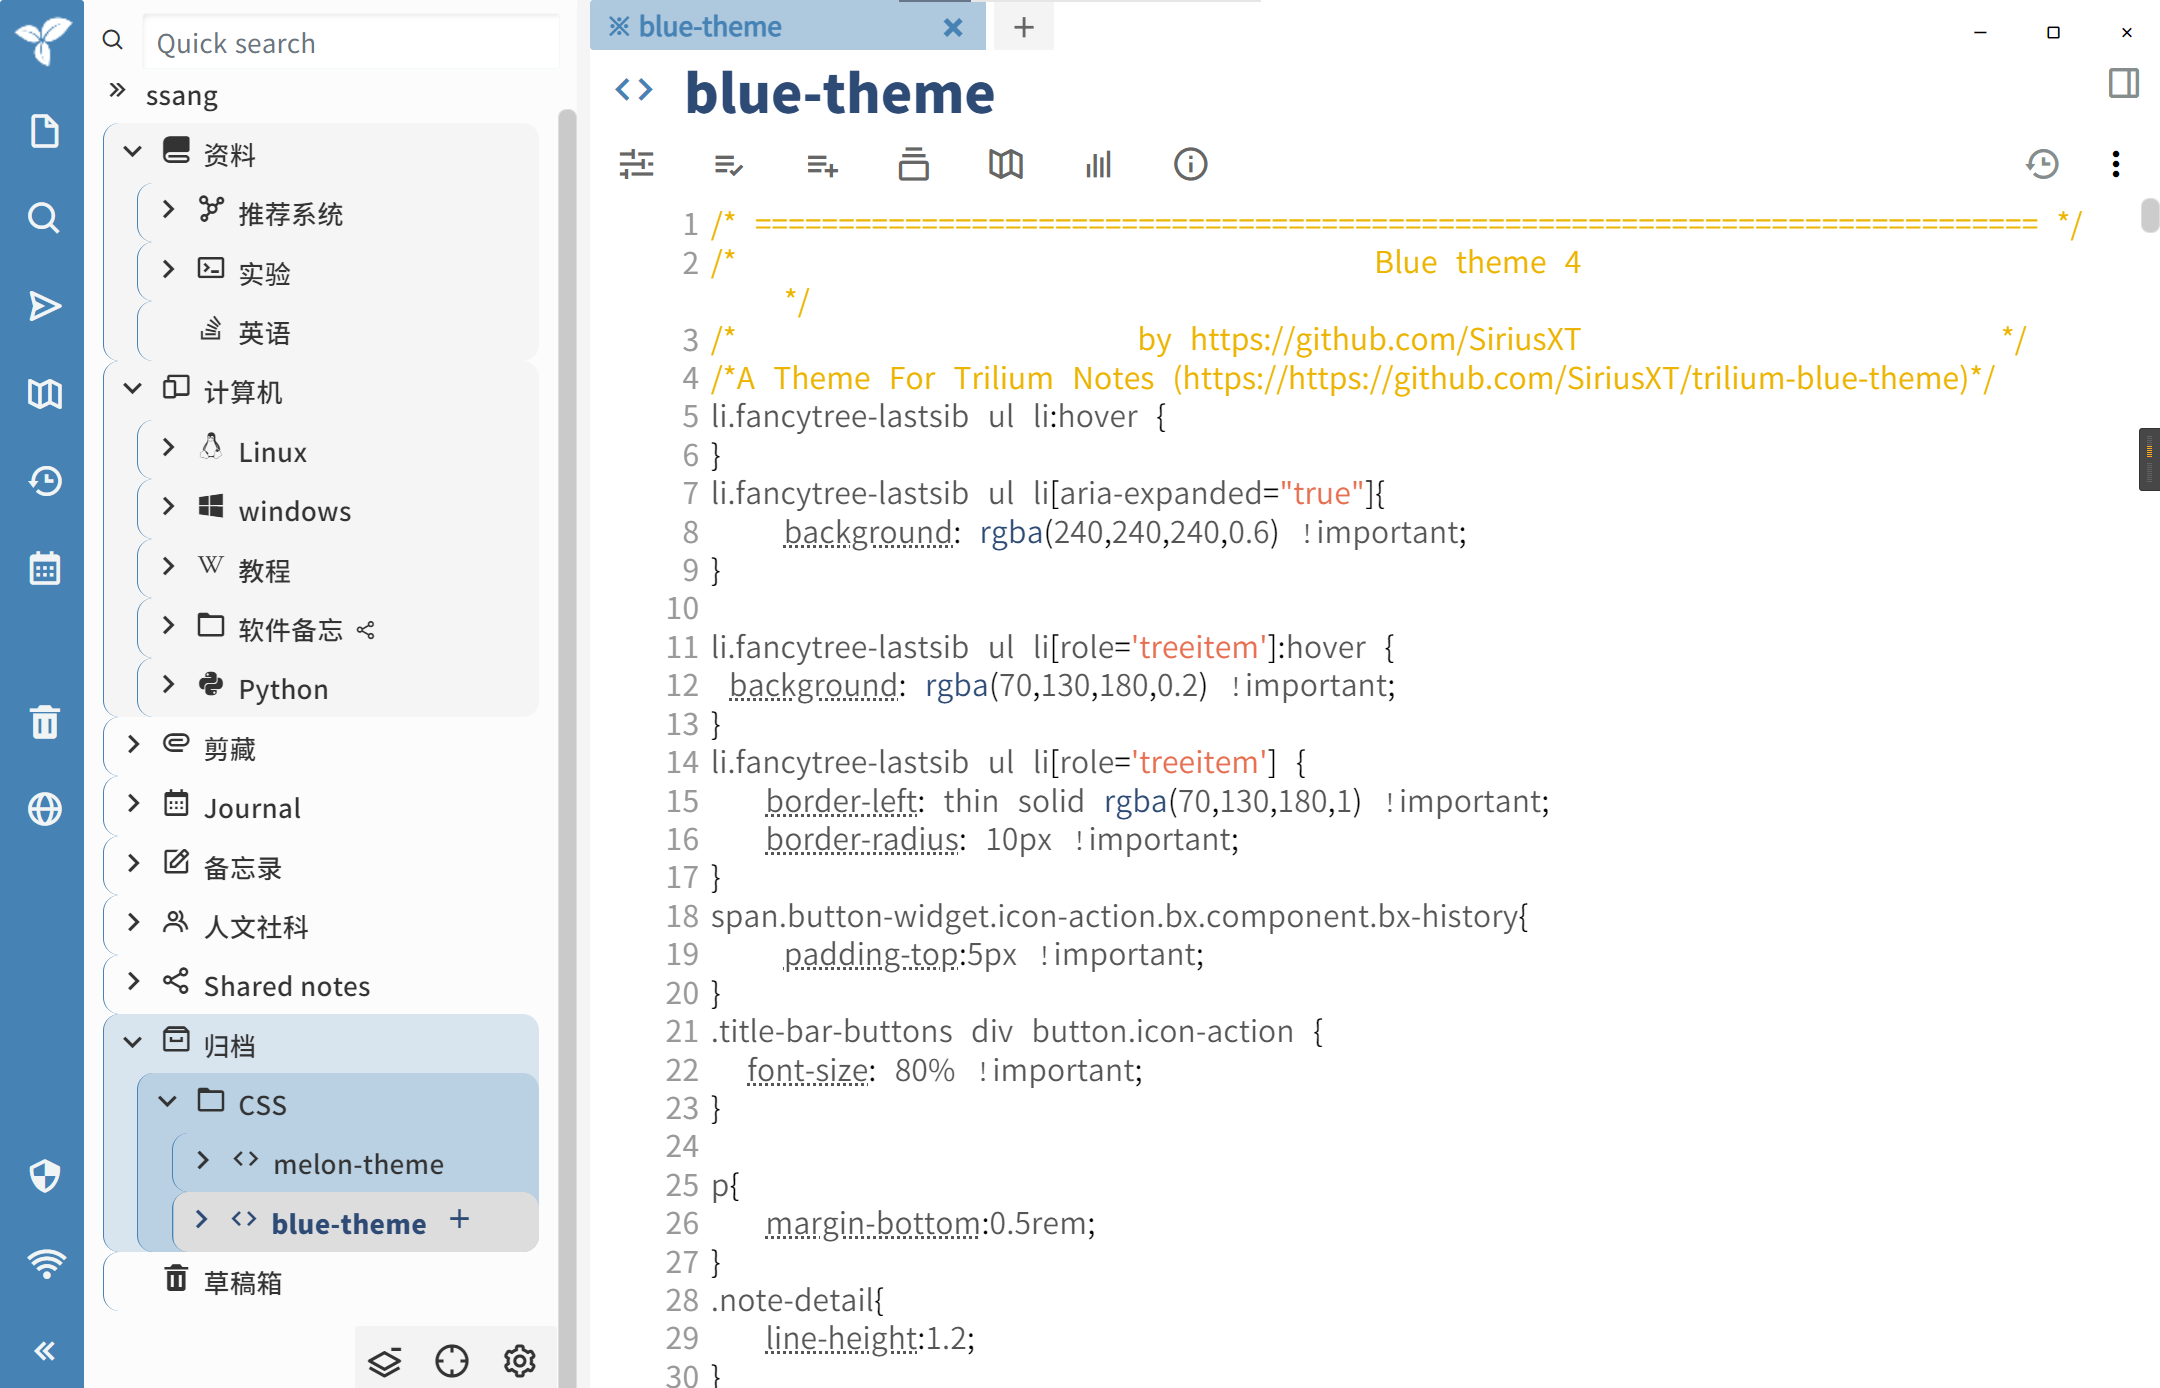
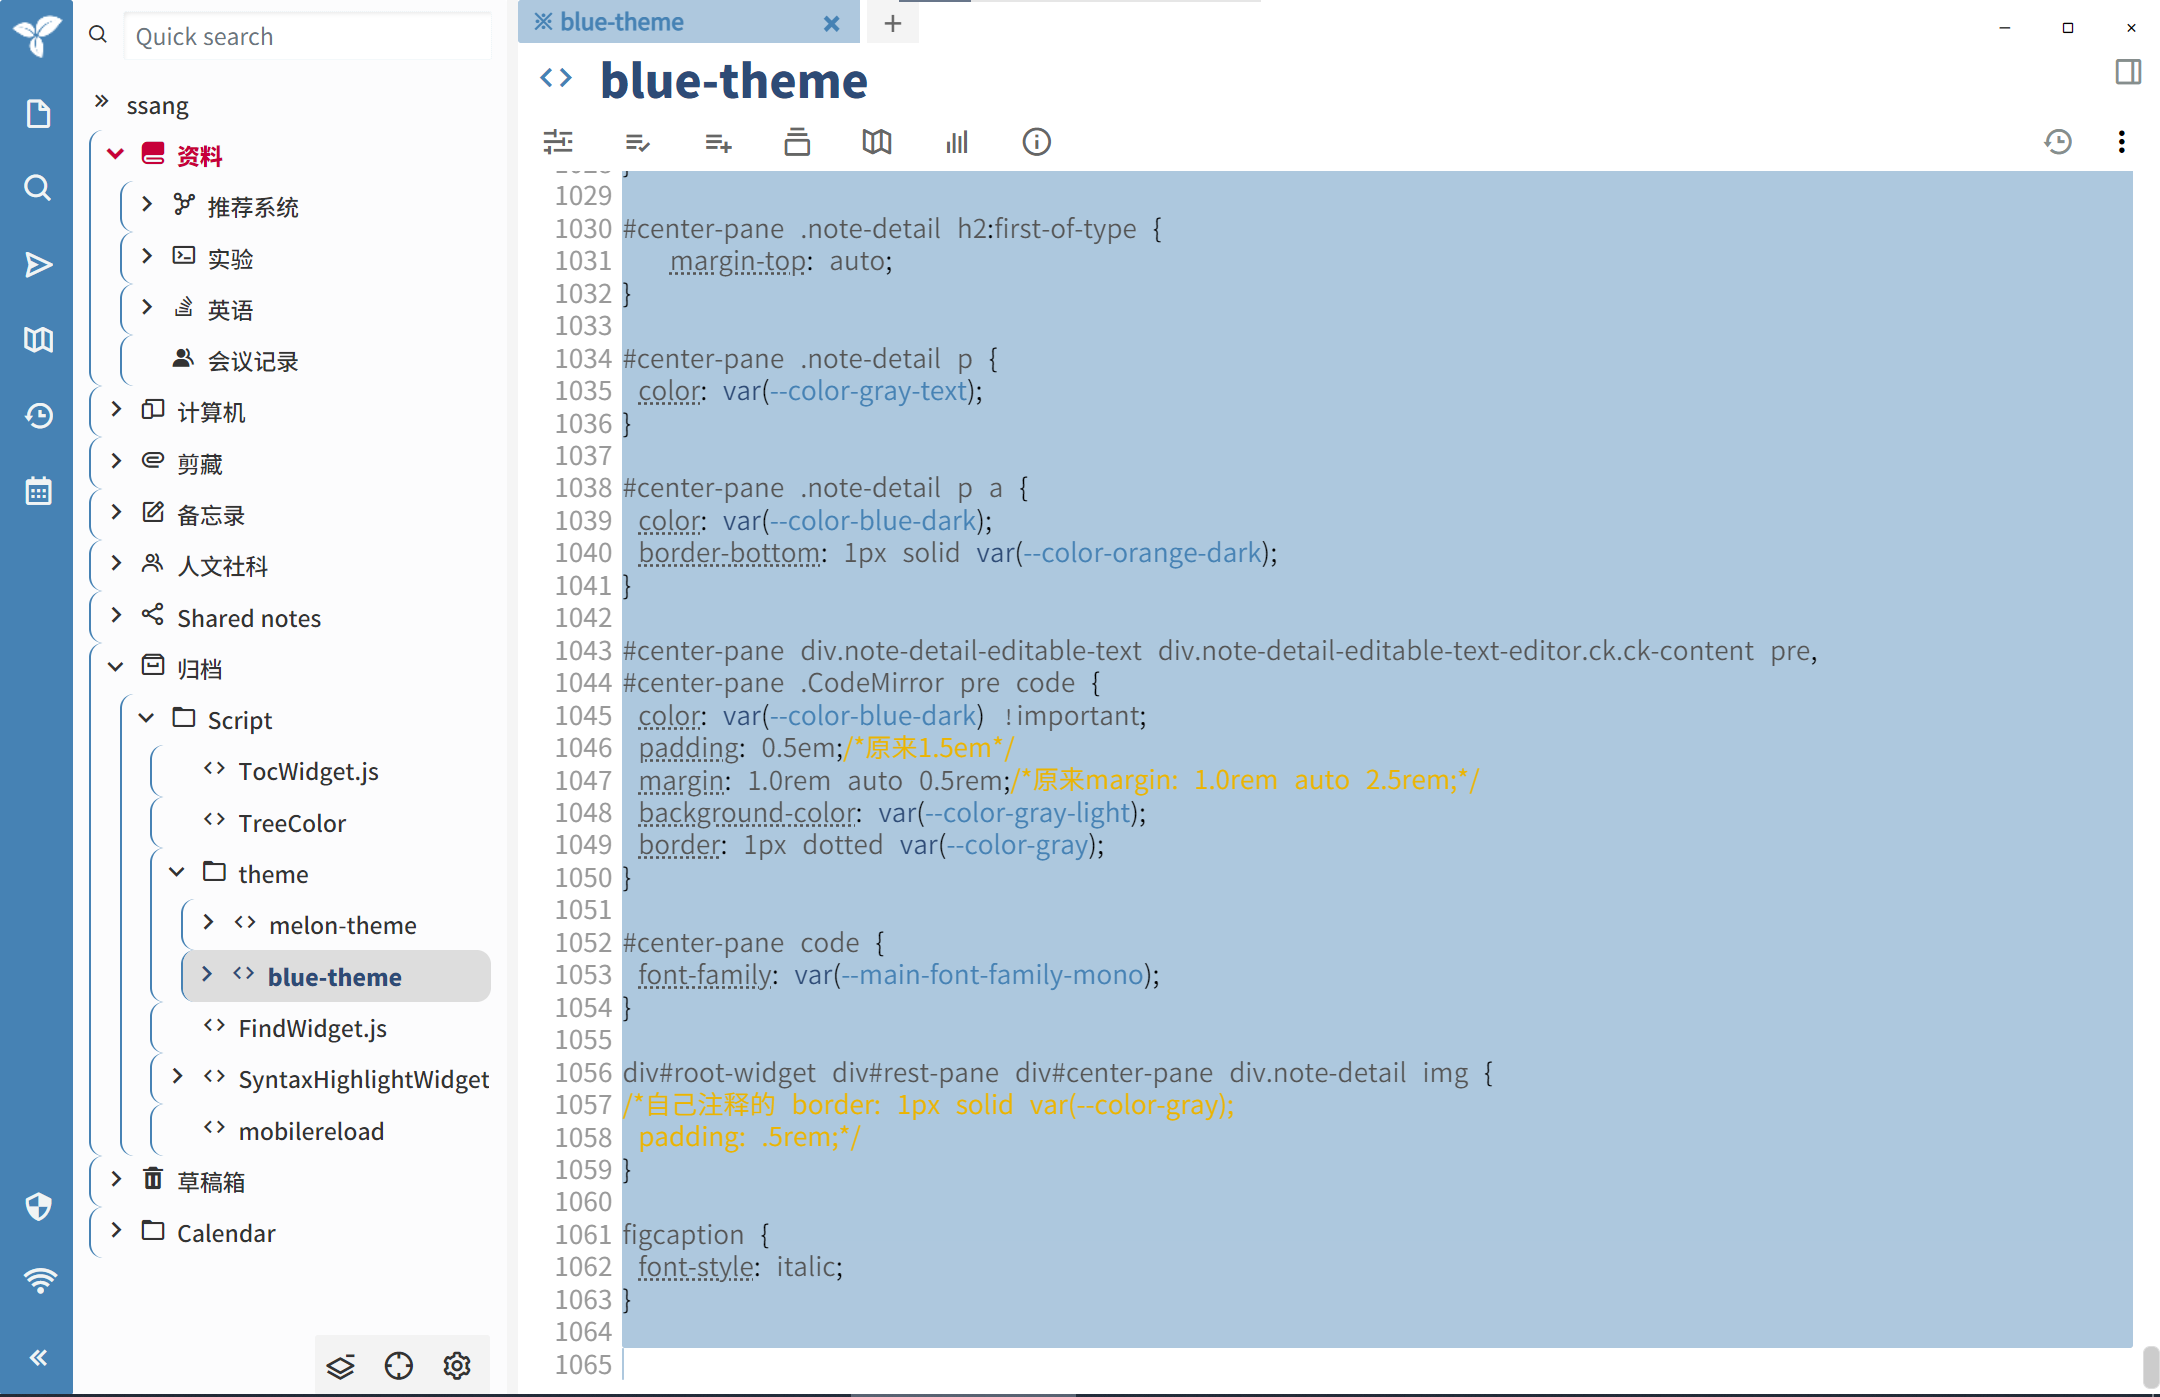
commit

diff --git a/blue-theme.css b/blue-theme.css
@@ -2,20 +2,23 @@
 /*                                   Blue theme 4                                   */
 /*                      by https://github.com/SiriusXT                       */ 
 /*A Theme For Trilium Notes (https://https://github.com/SiriusXT/trilium-blue-theme)*/
+/*treecolor*/
+
 li.fancytree-lastsib ul li:hover {
 }
-li.fancytree-lastsib ul li[aria-expanded="true"]{
-    background: rgba(240,240,240,0.5) !important;
-}
+/*ul#ft-id-1>li.fancytree-lastsib>ul>li[aria-expanded="true"]{
+    background: rgba(240,240,240,0.6) ;
+}*/
 
 li.fancytree-lastsib ul li[role='treeitem']:hover {
- background: rgba(70,130,180,0.3) !important;
+ background: rgba(70,130,180,0.1) !important;
 }
+
 li.fancytree-lastsib ul li[role='treeitem'] {
-   border-left: thin solid rgba(70,130,180,1) !important;
+   border-left: 1.5px solid rgba(70,130,180,1) !important;
    border-radius: 10px !important;
 }
-span.button-widget.icon-action.bx.component.bx-history{
+span.button-widget.icon-action.bx.component.bx-history,.ribbon-button-container .icon-action{
     padding-top:5px !important;
 }
 .title-bar-buttons div button.icon-action {
@@ -24,7 +27,13 @@ span.button-widget.icon-action.bx.component.bx-history{
 
 p{
    margin-bottom:0.5rem;
+   text-indent:2em;
 }
+blockquote>p{
+    text-indent:0em;
+}
+
+
 .note-detail{
    line-height:1.2;
 }
@@ -80,47 +89,50 @@ h1{
    border-bottom: 1px solid rgba(0,0,0, 1);
 }
 h2 {
-   background: rgba(43,102,149, 1);
-   border-radius: 6px 6px 6px 6px;
-   box-shadow: 0 0 0 1px #5F5A4B, 1px 1px 6px 1px rgba(10, 10, 0, 0.5);
-   color: #FFFFFF;
-   /*font-family:"微软雅黑", "宋体", "黑体", Arial;
+  background: rgba(43,102,149, 0.8);
+  border-radius: 6px 6px 6px 6px;
+  box-shadow: 0 0 0 1px #5F5A4B, 1px 1px 6px 1px rgba(10, 10, 0, 0.5);
+  color: #FFFFFF;
    font-size: 18px;
-   height: 25px;
-   line-height: 25px; */  
-   font-weight: bold;
-   margin: 18px 0 !important;
-   padding: 8px 0 5px 5px;
-   text-shadow: 2px 2px 3px #222222;
+  /*font-family:"微软雅黑", "宋体", "黑体", Arial;
+  
+  height: 25px;
+  line-height: 25px; */  
+  font-weight: bold;
+  margin: 18px 0 !important;
+  padding: 8px 0 5px 5px;
+  text-shadow: 2px 2px 3px #222222;
 }
 h3 {
-   background: rgba(43,102,0, 1);
-   border-radius: 6px 6px 6px 6px;
-   box-shadow: 0 0 0 1px #5F5A4B, 1px 1px 6px 1px rgba(10, 10, 0, 0.5);
-   color: #FFFFFF;
-   /*font-family:"微软雅黑", "宋体", "黑体", Arial;
-   font-size: 15px;
-   height: 24px;
-   line-height: 23px;
-   font-weight: bold;*/
-   margin: 12px 0 !important;
-   padding: 5px 0 5px 10px;
-   text-shadow: 2px 2px 3px #222222;
+  background: rgba(43,102,0,0.6);
+  border-radius: 6px 6px 6px 6px;
+  box-shadow: 0 0 0 1px #5F5A4B, 1px 1px 6px 1px rgba(10, 10, 0, 0.5);
+  color: #FFFFFF;
+  /*font-family:"微软雅黑", "宋体", "黑体", Arial;
+  font-size: 15px;
+  height: 24px;
+  line-height: 23px;
+  font-weight: bold;*/
+  margin: 12px 0 !important;
+  padding: 5px 0 5px 10px;
+  text-shadow: 2px 2px 3px #222222;
 }
 h4 {
-   background: #5B9600;
-   border-radius: 6px 6px 6px 6px;
-   box-shadow: 0 0 0 1px #5F5A4B, 1px 1px 6px 1px rgba(10, 10, 0, 0.5);
-   color: #FFFFFF;
-   /*font-family:"微软雅黑", "宋体", "黑体", Arial;
-   font-size: 13px;
-   height: 24px;
-   line-height: 20px;
-   font-weight: bold;*/
-   margin: 12px 0 !important;
-   padding: 5px 0 5px 10px;
-   text-shadow: 2px 2px 3px #222222;
+  background: rgba(91,150,0,0.8);
+  border-radius: 6px 6px 6px 6px;
+  box-shadow: 0 0 0 1px #5F5A4B, 1px 1px 6px 1px rgba(10, 10, 0, 0.5);
+  color: #FFFFFF;
+  /*font-family:"微软雅黑", "宋体", "黑体", Arial;
+  font-size: 13px;
+  height: 24px;
+  line-height: 20px;
+  font-weight: bold;*/
+  margin: 12px 0 !important;
+  padding: 5px 0 5px 10px;
+  text-shadow: 2px 2px 3px #222222;
 }
+ 
+ 
 
 /* Fira Mono */
 @font-face {
@@ -623,8 +635,8 @@ div#root-widget div#left-pane span.fancytree-node.fancytree-node span {
  font-family: var(--main-font-family-serif);
 }
 
-div#root-widget div#left-pane span.fancytree-node.fancytree-active span {
- color: var(--color-blue-dark);
+div#root-widget div#left-pane span.fancytree-node.fancytree-active:not(span.fancytree-node.imp) span {
+     color: var(--color-blue-dark);/*自定义*/
 }
 
 div#root-widget div#left-pane span.fancytree-node.protected > span.fancytree-custom-icon {

diff --git a/readme.md b/readme.md
@@ -1,4 +1,4 @@
-由[melon-theme](https://github.com/zadam/trilium)改进而来,blue-theme为导出的zip笔记。
+由[melon-theme](https://github.com/zadam/trilium)改进而来,blue-theme.zip为导出的zip笔记。
 
 ## 特点
 
